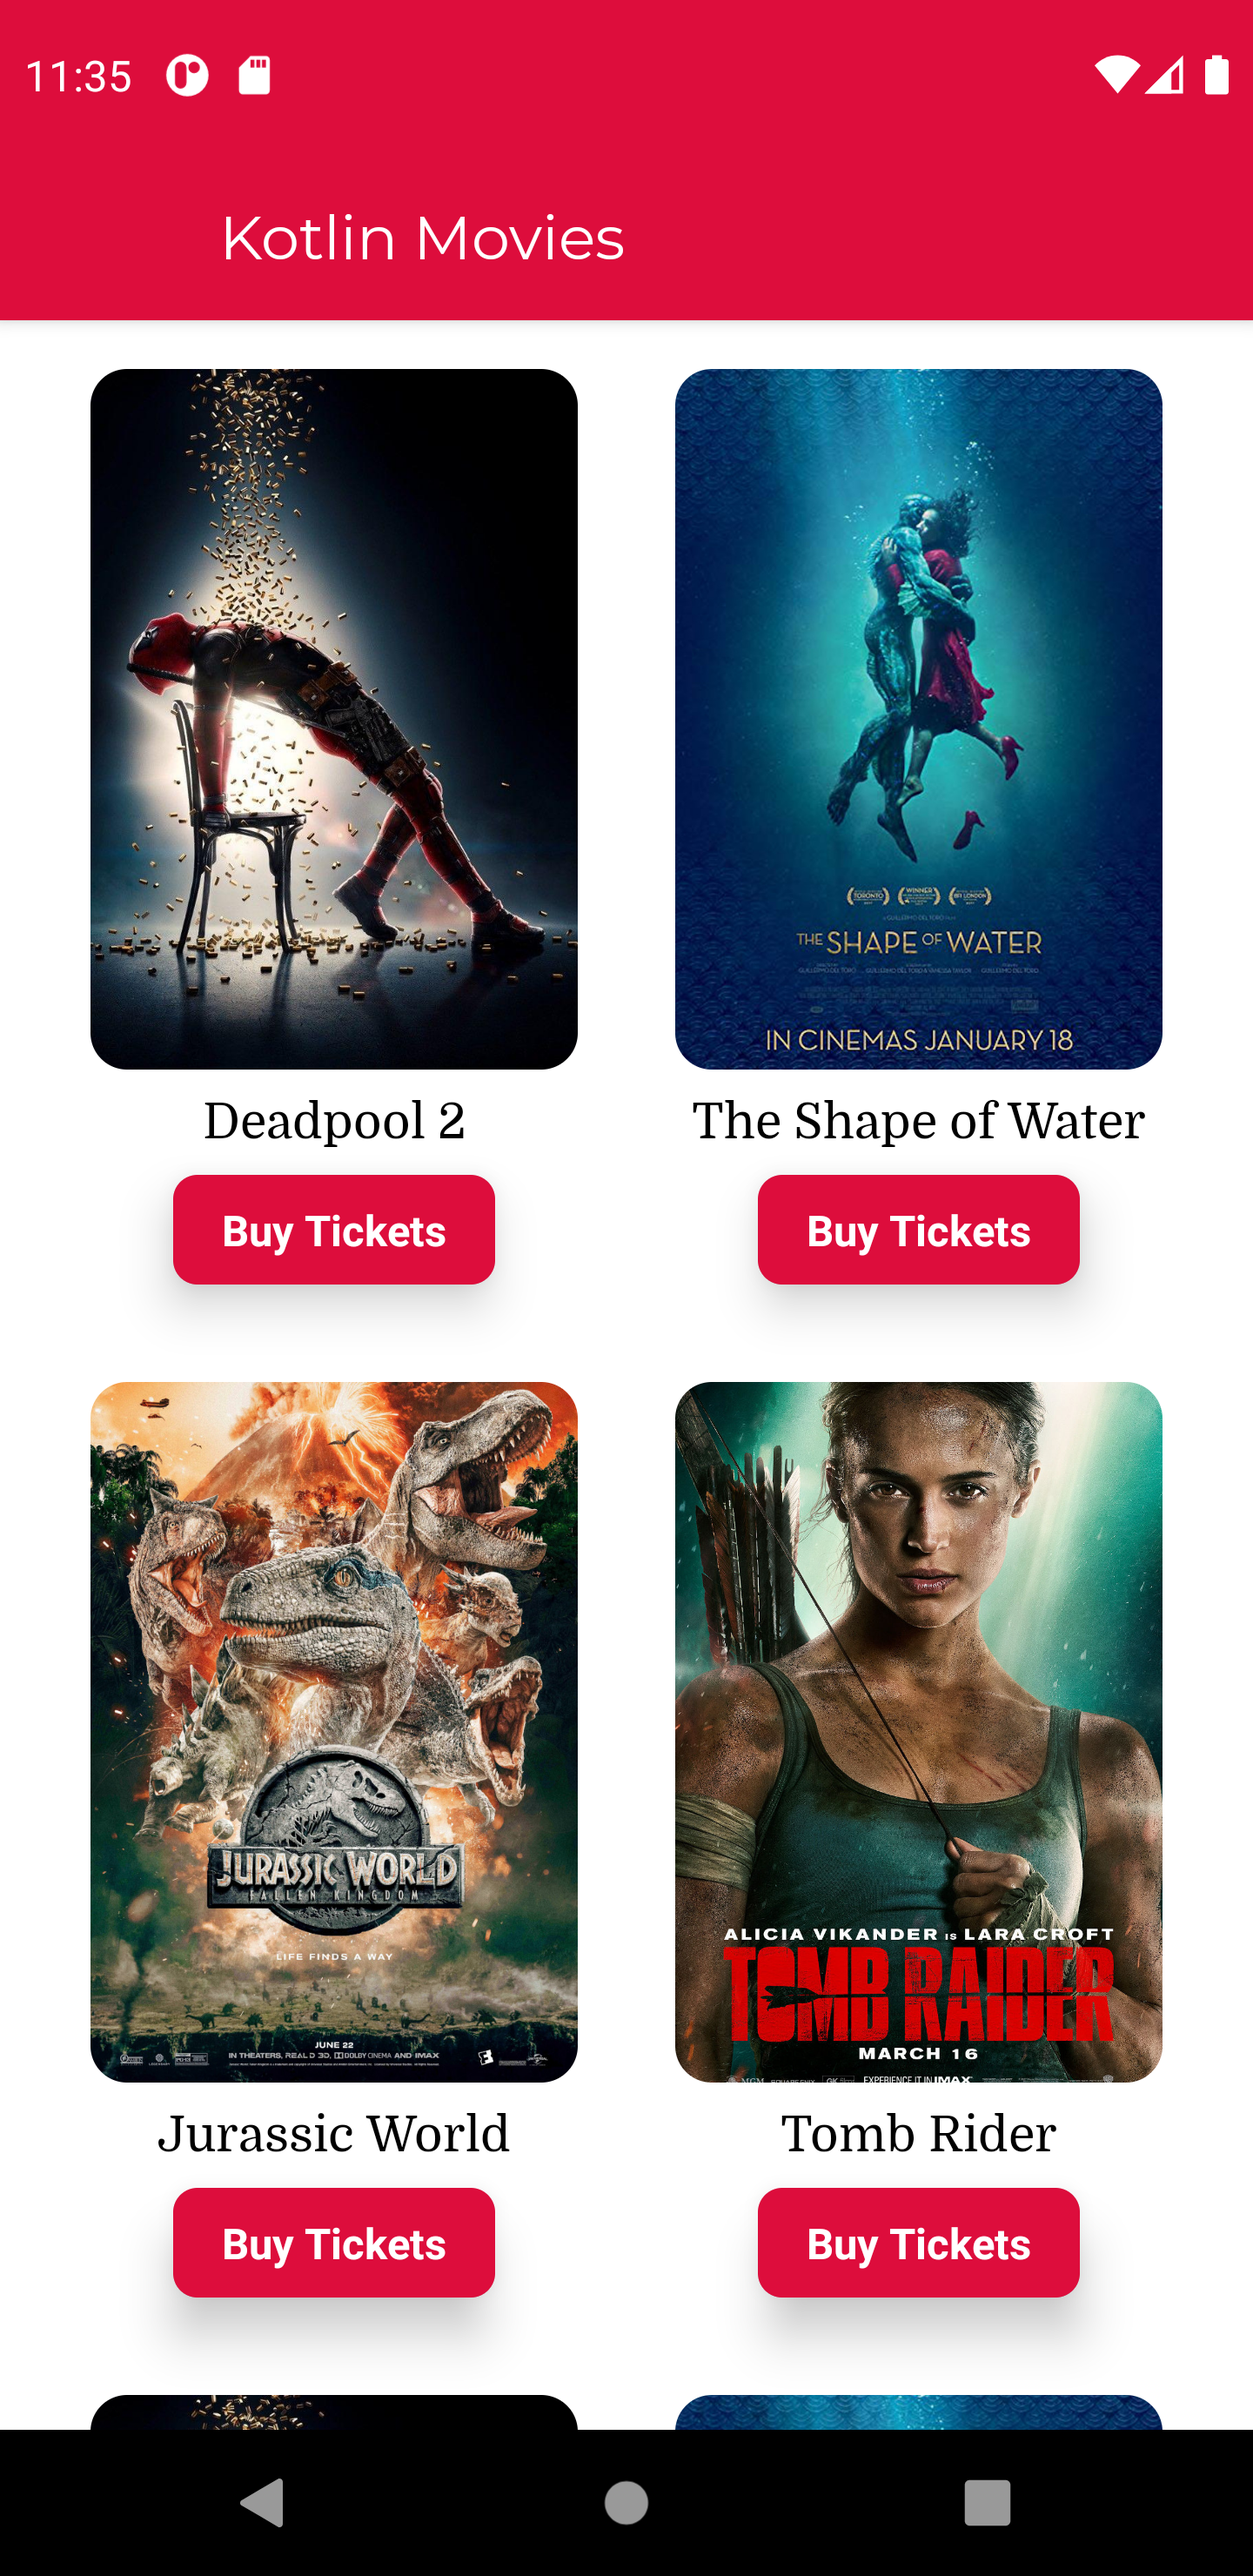
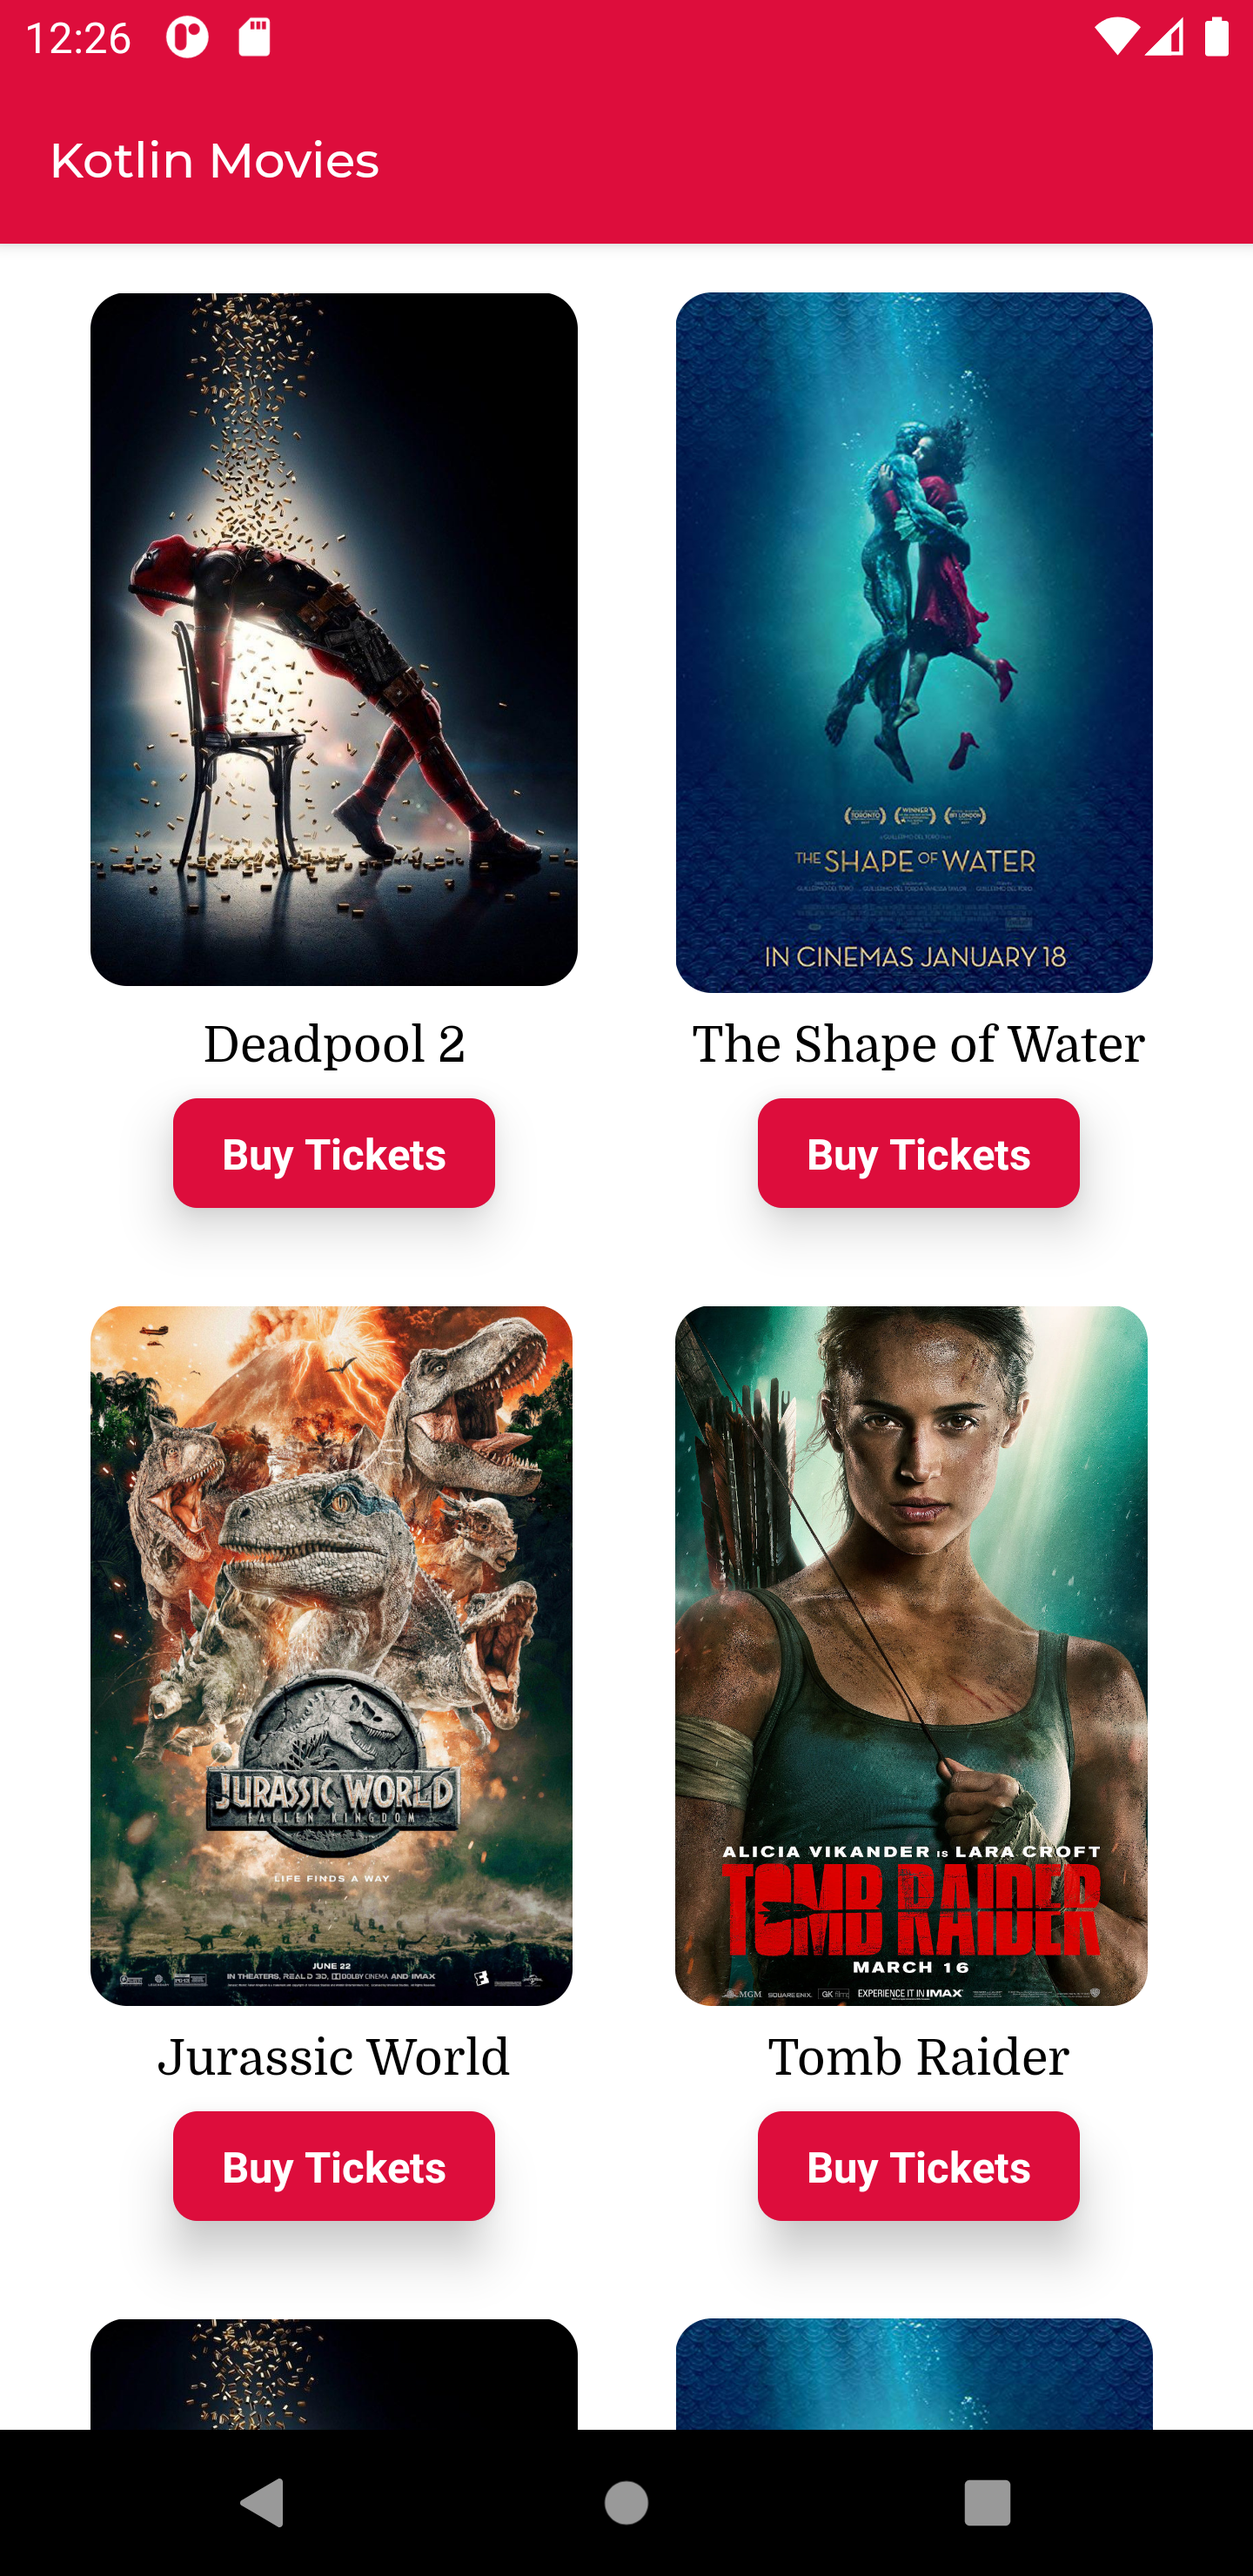
Screenshots updated. Titles updated.

diff --git a/app/src/main/java/com/jfma75/movieskotlindemo/MainActivity.kt b/app/src/main/java/com/jfma75/movieskotlindemo/MainActivity.kt
@@ -21,7 +21,7 @@ var movies = listOf(
     ),
     listOf(
         Movie(2, "Jurassic World", "Action", R.drawable.jurassic_world),
-        Movie(3, "Tomb Rider", "Action", R.drawable.tomb_raider)
+        Movie(3, "Tomb Raider", "Action", R.drawable.tomb_raider)
     ),
     listOf(
         Movie(4, "Deadpool 2", "Action", R.drawable.deadpool_2),
@@ -29,7 +29,7 @@ var movies = listOf(
     ),
     listOf(
         Movie(6, "Jurassic World", "Action", R.drawable.jurassic_world),
-        Movie(7, "Tomb Rider", "Action", R.drawable.tomb_raider)
+        Movie(7, "Tomb Raider", "Action", R.drawable.tomb_raider)
     )
 )
 

diff --git a/app/src/main/java/com/jfma75/movieskotlindemo/screens/MoviesHomeScreen.kt b/app/src/main/java/com/jfma75/movieskotlindemo/screens/MoviesHomeScreen.kt
@@ -31,7 +31,7 @@ fun MoviesHomeScreen(navigateTo: (Screen) -> Unit) {
             TopAppBar(
                 title = {
                     Text(
-                        text = "Movies",
+                        text = "Kotlin Movies",
                         style = MaterialTheme.typography.subtitle1,
                         color = contentColor()
                     )
